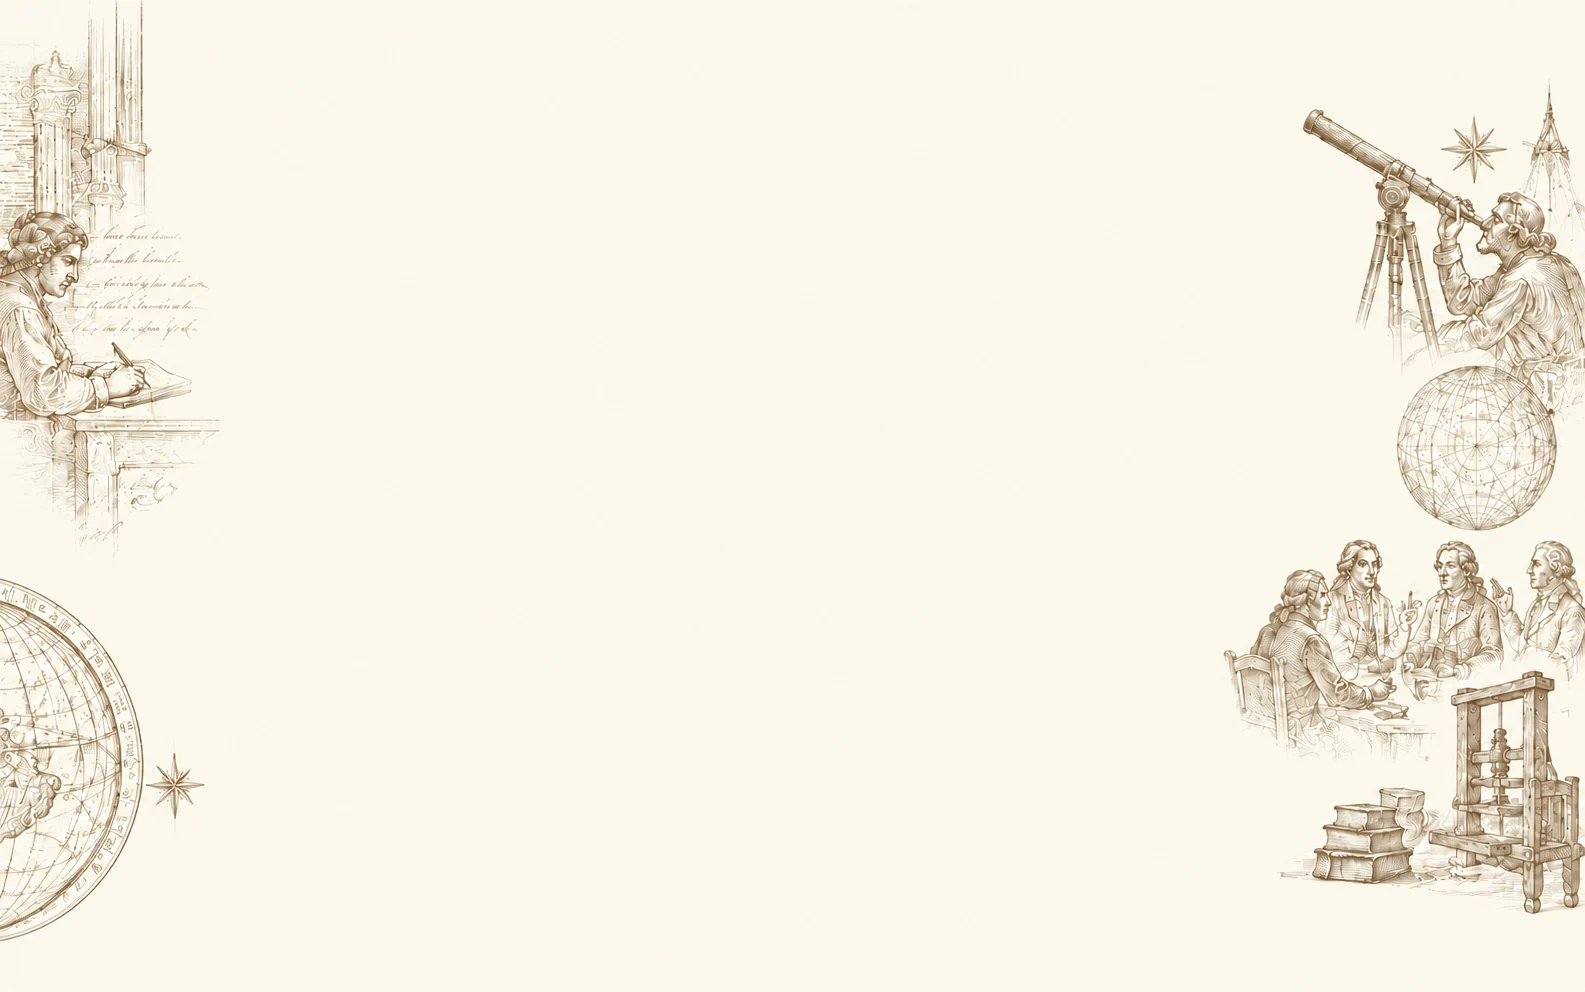
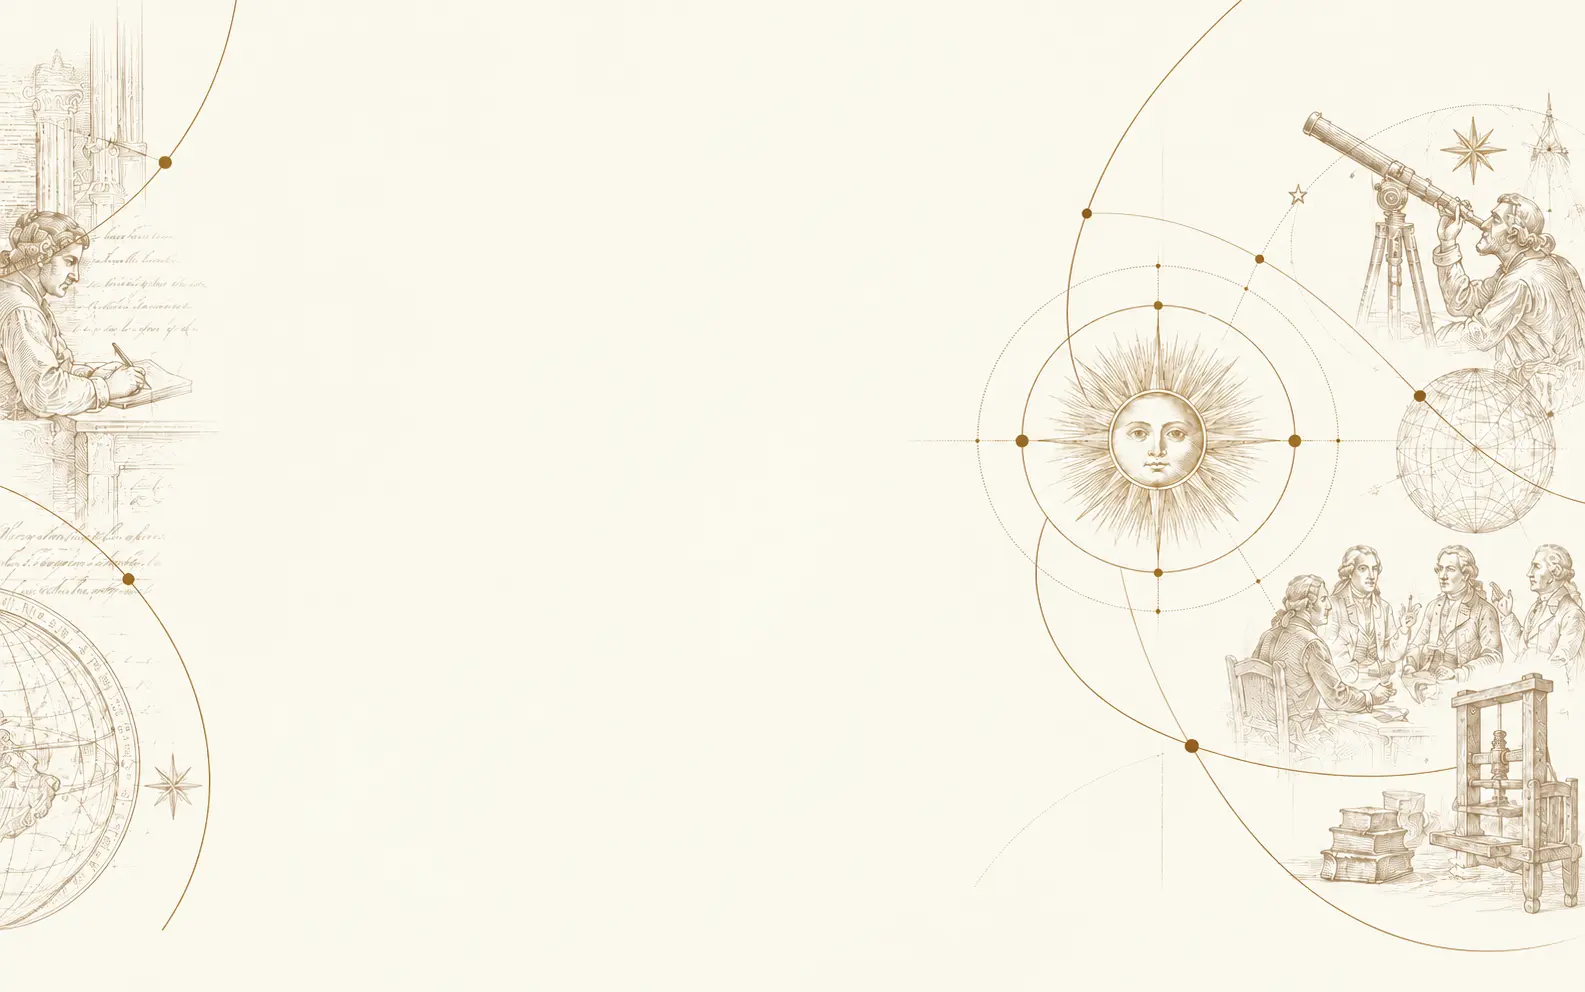
home2: เอาดวงอาทิตย์ SVG ออก เปลี่ยนปุ่ม และแก้ตรา MOMAY
ดวงอาทิตย์: ลบทั้งก้อน ไม่ได้แค่ซ่อน
ทั้งตัว <g class="sun"> ตัวสร้างแฉก SUN_RAYS 24 แฉก
gradient kwSunGlow ที่มีไว้ให้แสงเรืองอย่างเดียว
CSS ของแฉกกับจาน keyframes kwSpin และชื่อคลาสในบล็อก
prefers-reduced-motion ที่อ้างถึงมัน
วงโคจรยังอยู่ตามเดิม เพราะเป็นคนละชิ้นกัน

หมายเหตุ: ยังมีดวงอาทิตย์อีกดวงที่ฝังอยู่ในภาพพื้นหลัง bg-momay.webp
ซึ่งลบด้วย CSS ไม่ได้ ต้องแก้ที่ตัวไฟล์ภาพ ยังไม่ได้แตะ

ปุ่ม: EXPLORE MOMAY / VIEW OUR WORK
  -> MOMAY SURPRISE (/SurpriseV220926)
  -> MOMAY MAP (/renewablesort/MomayforSaleV2)
ทั้งสองปุ่มชี้ไปที่ตัวผลิตภัณฑ์จริง ไม่ใช่หน้ารวมงาน
ชื่อปุ่มกับปลายทางจึงตรงกัน

ตรา MOMAY ใน forwardthinkingV2: เลิกใช้ตัว M แดงชุดเดิม
เปลี่ยนเป็นตราชุดใหม่ MOMAY ENLIGHTENMENT
เลือกไฟล์ home2/momay-enlightenment.png (612x408) ไม่ใช่
MOMAY_logo.png (1200x324) เพราะอันหลังเป็นตราแนวนอน
ใส่ในวงกลมแล้วจะเล็กจนอ่านไม่ออก และผิดแถวกับโลโก้ตัวอื่น
ที่เป็นผืนจัตุรัสกันหมด

bg-momay.webp ที่ติดมาด้วยไม่ใช่การแก้ของ commit นี้
ไฟล์ถูกเปลี่ยนไว้ในเครื่องก่อนหน้าแล้ว (97,824 -> 76,388 ไบต์)
เก็บเข้ามาตามสภาพที่เป็นอยู่จริงบนดิสก์

diff --git a/pages/home2.vue b/pages/home2.vue
@@ -29,14 +29,6 @@
 
     <!-- ── ระบบวงโคจร: เต็มหน้า วางศูนย์กลางไว้ฝั่งขวาตามแบบ ── -->
     <svg class="orbits" viewBox="0 0 1600 1000" preserveAspectRatio="xMidYMid slice" aria-hidden="true">
-      <defs>
-        <radialGradient id="kwSunGlow" cx="0.5" cy="0.5" r="0.5">
-          <stop offset="0%" stop-color="#e8c56a" stop-opacity="0.5" />
-          <stop offset="60%" stop-color="#e8c56a" stop-opacity="0.12" />
-          <stop offset="100%" stop-color="#e8c56a" stop-opacity="0" />
-        </radialGradient>
-      </defs>
-
       <!-- วงโคจรเอียงคนละมุม ตัดกันเป็นตาข่ายบาง ๆ -->
       <g class="orbits__ring">
         <ellipse cx="1150" cy="470" rx="470" ry="200" transform="rotate(-18 1150 470)" />
@@ -80,27 +72,6 @@
         <path d="M-62 0 H62 M-56 -26 H56 M-56 26 H56" />
         <ellipse rx="24" ry="62" />
         <ellipse rx="46" ry="62" />
-      </g>
-
-      <!-- ดวงอาทิตย์ — ใจกลางของทั้งระบบ
-           scale ขยายทั้งดวง (แสงเรือง รัศมี จาน และความหนาเส้น) พร้อมกันด้วยตัวเลขเดียว
-           ที่ 2 เท่า ปลายแฉกยาวอยู่ที่รัศมี 224 เฉียดวงโคจรวงในสุด (ry 245) แล้ว
-           เกินกว่านี้แฉกจะเริ่มแทงทะลุวงโคจรออกไป -->
-      <g class="sun" transform="translate(1150 470) scale(2)">
-        <circle class="sun__glow" r="180" fill="url(#kwSunGlow)" />
-
-        <!-- รัศมี: แฉกยาวสลับแฉกสั้นรอบวง -->
-        <g class="sun__rays">
-          <path
-            v-for="r in SUN_RAYS"
-            :key="r.a"
-            :d="r.d"
-            :transform="`rotate(${r.a})`"
-          />
-        </g>
-
-        <!-- จานเปล่า ไม่มีหน้า — เอาหน้ายิ้มออกตามที่สั่ง -->
-        <circle class="sun__disc" r="52" />
       </g>
     </svg>
 
@@ -185,8 +156,10 @@
         </p>
 
         <div class="cta">
-          <a class="btn btn--solid" href="/renewablesort/MomayforSaleV2">EXPLORE MOMAY</a>
-          <a class="btn btn--ghost" href="/projectsV2">VIEW OUR WORK</a>
+          <!-- สองปุ่มนี้ชี้ไปที่ตัวผลิตภัณฑ์จริงทั้งคู่ ไม่ใช่หน้ารวมงาน
+               ชื่อปุ่มกับปลายทางจึงตรงกัน กดแล้วได้สิ่งที่ชื่อบอกเลย -->
+          <a class="btn btn--solid" href="/SurpriseV220926">MOMAY SURPRISE</a>
+          <a class="btn btn--ghost" href="/renewablesort/MomayforSaleV2">MOMAY MAP</a>
         </div>
       </div>
     </main>
@@ -254,26 +227,6 @@ const NAV = [
 ] as { label: string; href: string; active?: boolean }[]
 
 const STEPS = ['SEE', 'UNDERSTAND', 'ANTICIPATE', 'SIMULATE']
-
-/* ── รัศมีดวงอาทิตย์ — แฉกยาวสลับแฉกสั้น เรียงรอบวงทีละ 15 องศา
-      วาดจากสูตรเพื่อให้เว้นระยะเท่ากันเป๊ะ เขียนมือ 24 แฉกแล้วมักเบี้ยว
-
-      ตามภาพต้นแบบ: แฉกยาวเป็นเข็มเรียว ส่วนแฉกสั้นฐานกว้างเกือบเท่าตัว
-      (ของเดิมกลับด้านกัน แฉกยาวฐานกว้าง แฉกสั้นเรียว ดวงเลยดูโปร่งกว่าต้นแบบ)
-
-      ฐานอยู่ที่ 58 ซึ่งพ้นขอบจาน (52) ออกมา จึงเหลือวงกระดาษบาง ๆ คั่นระหว่างจานกับโคนแฉก
-      ระยะห่างระหว่างแฉกที่ฐาน = 2π×58/24 ≈ 15.2 จึงกำหนดฐานแฉกสั้นไว้ที่ 15.2 (half 7.6)
-      คือกว้างที่สุดเท่าที่ยังไม่ซ้อนกันจนกลายเป็นวงทึบ ── */
-const SUN_RAYS = Array.from({ length: 24 }, (_, i) => {
-  const long = i % 2 === 0
-  const base = 58
-  const tip = long ? 112 : 82
-  const half = long ? 4.2 : 7.6
-  return {
-    a: i * 15,
-    d: `M ${-half} ${-base} L 0 ${-tip} L ${half} ${-base} Z`,
-  }
-})
 
 /** ตราคำว่า MOMAY — ผูก src เป็นตัวแปร ไม่ใส่พาธตรง ๆ ใน template
     เพราะตอน build ตัวรวมไฟล์จะพยายาม resolve พาธในแอตทริบิวต์ src แล้ว build พังถ้ายังไม่มีไฟล์ */
@@ -402,19 +355,7 @@ onBeforeUnmount(() => window.removeEventListener('keydown', onKeydown))
   fill: none; stroke: var(--gold); stroke-width: 1.1; opacity: 0.45;
 }
 
-.sun__rays path {
-  fill: var(--gold);
-  opacity: 0.62;
-}
-.sun__disc {
-  fill: var(--paper-2);
-  stroke: var(--gold);
-  stroke-width: 1.4;
-}
-/* หมุนช้ามาก — เห็นว่าไม่ใช่ภาพนิ่ง แต่ไม่ดึงสายตาออกจากตัวหนังสือ */
-.sun__rays { animation: kwSpin 220s linear infinite; transform-origin: 0 0; }
 .orbits__ring { animation: kwDrift 26s ease-in-out infinite alternate; transform-origin: 1150px 470px; }
-@keyframes kwSpin { to { transform: rotate(360deg); } }
 @keyframes kwDrift { to { transform: rotate(2.2deg); } }
 
 /* ── แถบบน ───────────────────────────────────────────── */
@@ -744,7 +685,7 @@ onBeforeUnmount(() => window.removeEventListener('keydown', onKeydown))
 }
 
 @media (prefers-reduced-motion: reduce) {
-  .sun__rays, .orbits__ring, .rail__down,
+  .orbits__ring, .rail__down,
   .wordmark, .hr, .kicker, .kicker-th, .claim, .claim-th, .cta {
     animation: none;
   }

diff --git a/pages/forwardthinkingV2.vue b/pages/forwardthinkingV2.vue
@@ -159,7 +159,10 @@ const PLATFORMS: {
     name: 'MOMAY',
     nameTh: 'ตัวกลางรับ–ส่งข้อมูลระหว่างระบบ',
     kicker: 'BEHAVIORAL INTELLIGENCE',
-    logo: '/MOMAY_mark.png',
+    /* ใช้ตราชุดใหม่ (MOMAY ENLIGHTENMENT) ไม่ใช่ตัว M แดงชุดเดิม
+       เลือกไฟล์ใน home2/ เพราะสัดส่วน 612x408 ใกล้จัตุรัส พอดีกับวงกลม
+       ส่วน /MOMAY_logo.png เป็นตราแนวนอน 1200x324 ใส่ในวงกลมแล้วจะเล็กจนอ่านไม่ออก */
+    logo: '/home2/momay-enlightenment.png',
     body: 'MOMAY คือ source code ที่เป็นตัวกลางในการรับข้อมูลจากแหล่งต่าง ๆ ได้ตามความต้องการ แล้วส่งต่อไปยัง Espresso เพื่อแสดงผลแบบเรียลไทม์',
     bullets: ['พลังงานไฟฟ้า', 'กล้องวงจรปิด', 'ห้องสมุดออนไลน์'],
     primary: { label: 'EXPLORE MOMAY', href: '/renewablesort/MomayforSaleV2' },
